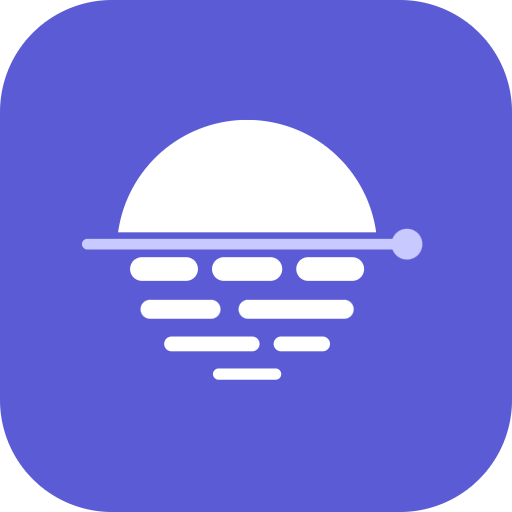
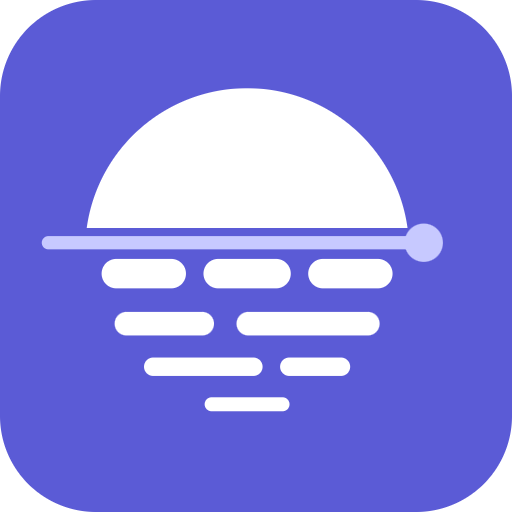
Ícono: el símbolo ocupa casi todo el cuadrado, como los íconos de Windows 11
El cuadrado ya iba a sangre; lo que se veía chico en la barra de tareas era
el símbolo, que ocupaba la mitad. Escala 0,92 (0,98 en la versión chica),
esquinas de radio 12 y 10, y la línea de escaneo hasta 56 para que el punto
no toque el borde. Regenerados icon.ico y los PNG con scripts/marca.mjs. El
isotipo sin cuadrado no cambia.

diff --git a/docs/marca/README.md b/docs/marca/README.md
@@ -42,6 +42,12 @@ Los íconos para la app están en `apps/desktop/resources/`: `icon.png` (1024 px
 
   `#9C9CF2` es un color nuevo, solo de marca: no existe como token.
 
+- **Ícono de la aplicación (2026-11-25):** el cuadrado índigo ocupa todo el lienzo y el símbolo, casi todo el
+  cuadrado (escala 0,92 en la versión grande y 0,98 en la chica, centrado donde estaba), con esquinas de
+  radio 12 y 10, como los íconos de Windows 11. Antes el símbolo ocupaba la mitad del cuadrado y en la barra
+  de tareas se veía más chico que los de otras apps, aunque el cuadrado ya iba a sangre. La línea de escaneo
+  llega hasta 56 (no 59) solo en el ícono, para que el punto no quede pegado al borde del cuadrado; a 16 px
+  se lee igual. El isotipo sin cuadrado (`Logo` y los `isotipo-*.svg`) no cambia: ahí no hay borde.
 - **Tamaño mínimo:** el logo con nombre, 24 px de alto. Por debajo de 48 px, usar las versiones
   `-chico` del ícono.
 - **Área libre:** alrededor del logo, al menos la altura de la "Q" del nombre.
